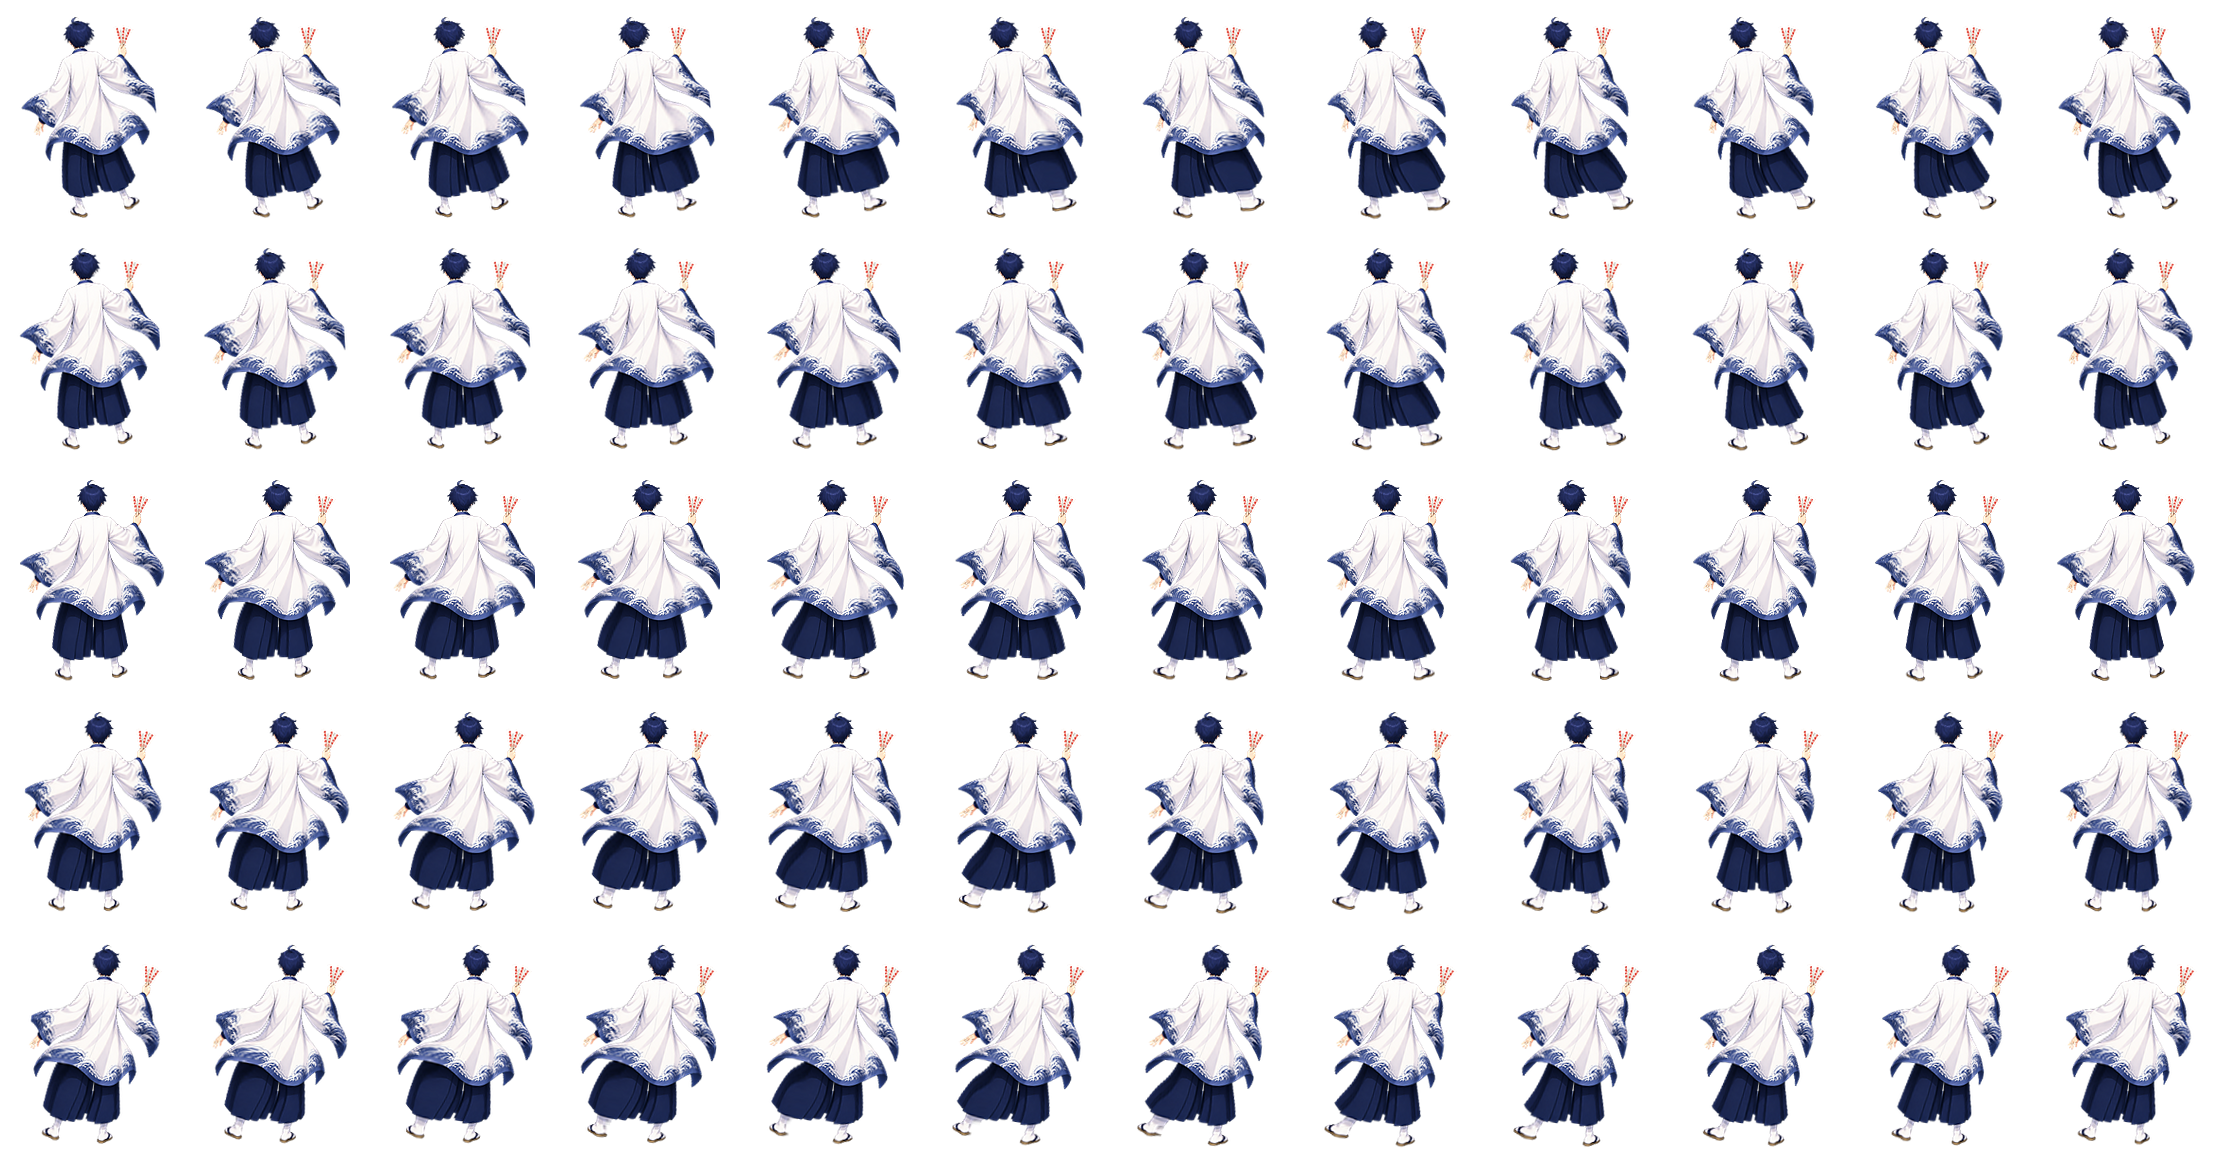
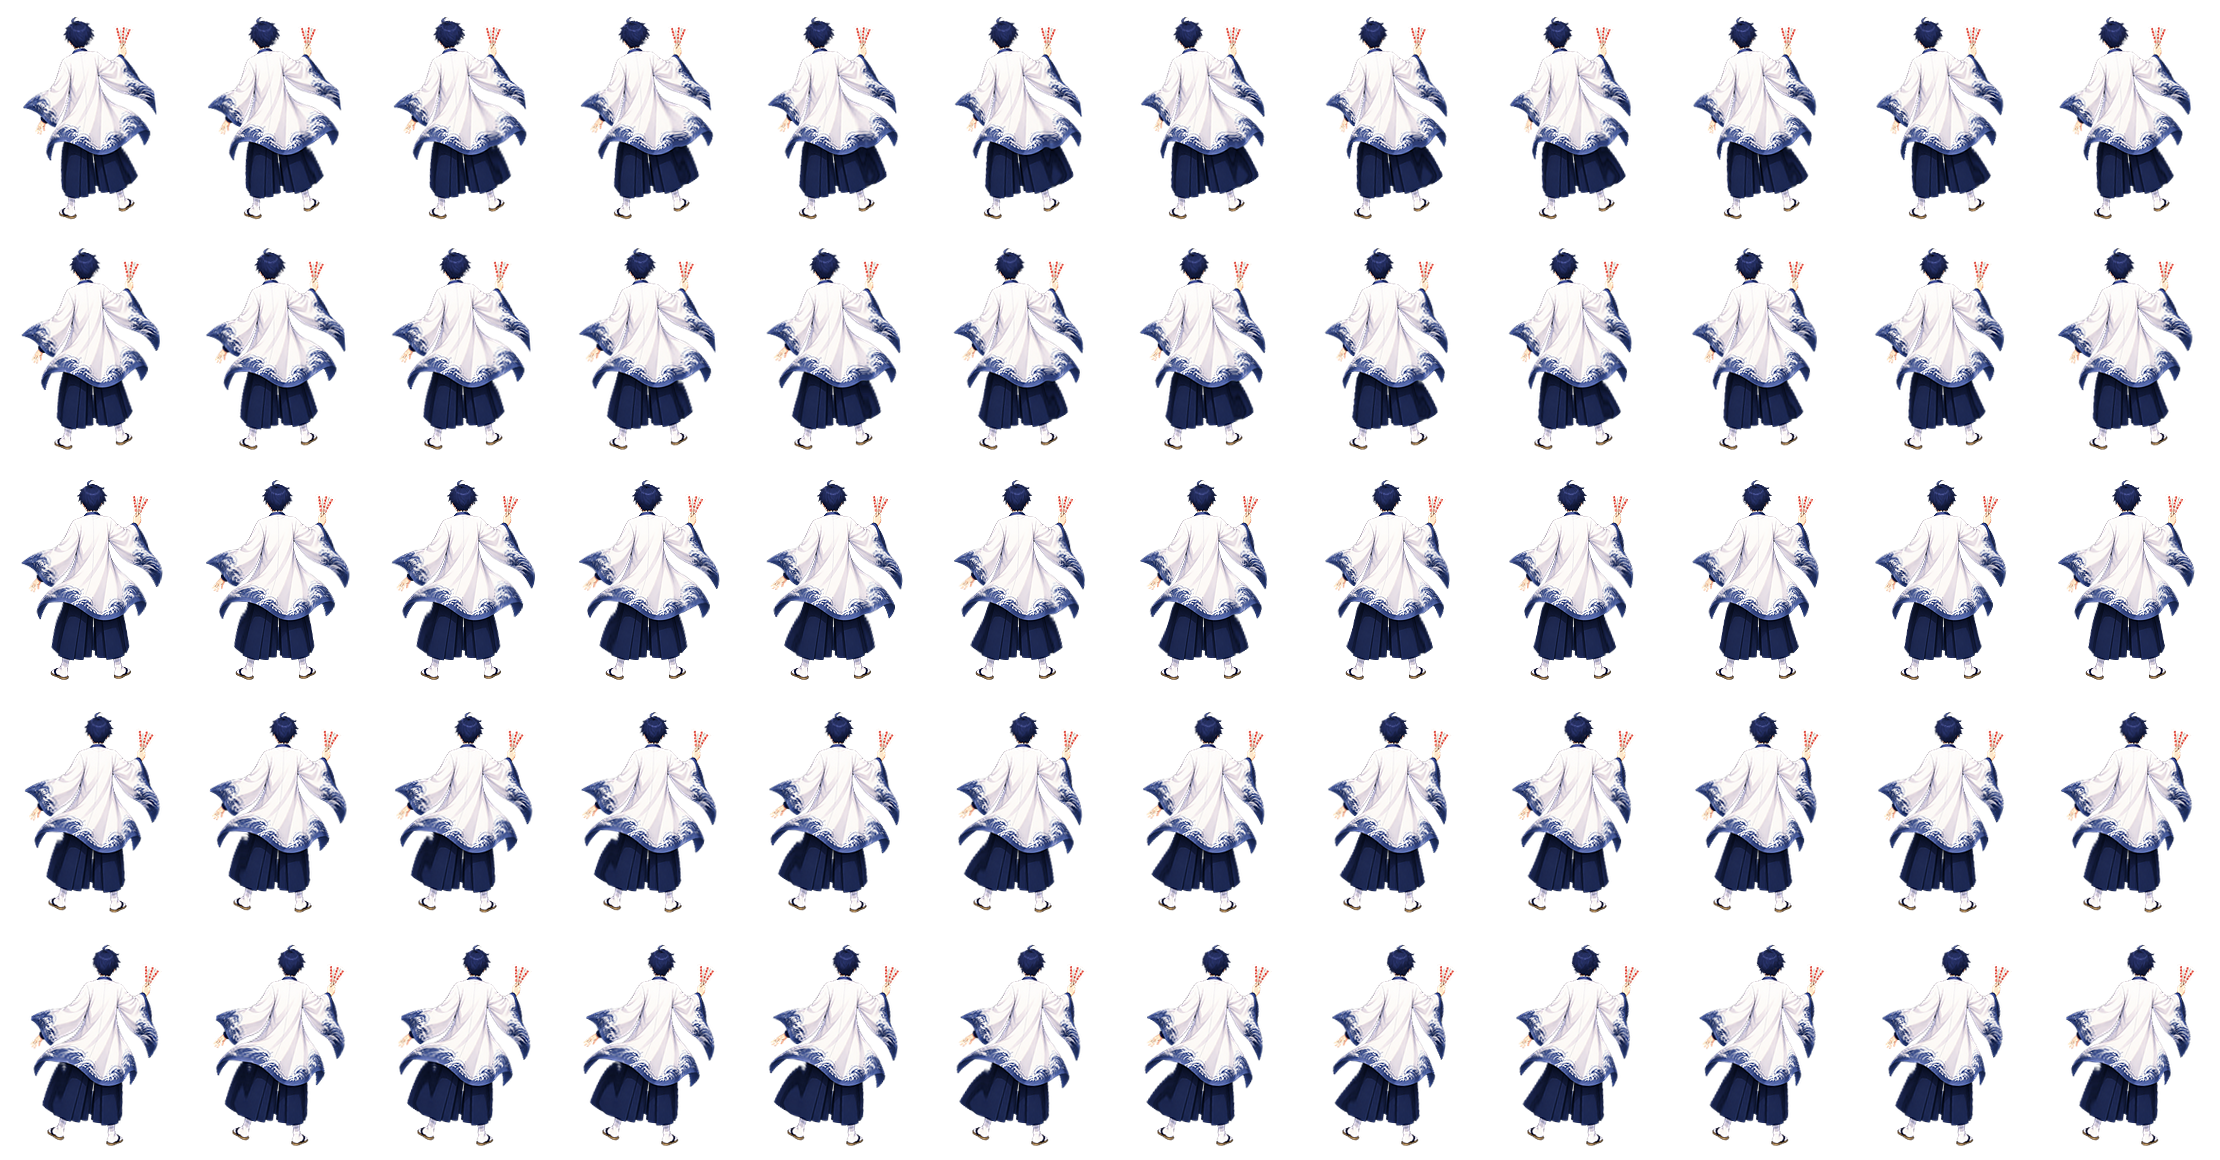
1UP item, 6-life/bomb cap, steadier sprite legs, gentler stage 1 last spell
- Lives and bombs cap at 6; extends past the cap become score.
- Life/bomb piece counters sit in a fixed column.
- New 1UP item: dropped by a carrier fairy before the stage 6 boss,
  by the Extra and Extra-IF midbosses, and by the last fairy of each.
- Sprite sheets: legs and feet stay pinned; only sleeves, coat and hair sway.
- 終夜天象: HP 1100 and every layer fires less often.

diff --git a/Godot/Scripts/Hud.cs b/Godot/Scripts/Hud.cs
@@ -100,6 +100,7 @@ public sealed class DanmakuHud
 	Texture2D ShotTalisman;
 	Texture2D ItemPower;
 	Texture2D ItemPoint;
+	Texture2D ItemOneUp;   // the 1UP item (Art/item_1up.png)
 	Texture2D IconLife;
 	Texture2D IconBomb;
 
@@ -170,6 +171,7 @@ public sealed class DanmakuHud
 		ShotTalisman   = LoadArt("shot_talisman.png");
 		ItemPower      = LoadArt("item_power.png");
 		ItemPoint      = LoadArt("item_point.png");
+		ItemOneUp      = LoadArt("item_1up.png");
 		IconLife       = LoadArt("icon_life.png");
 		IconBomb       = LoadArt("icon_bomb.png");
 
@@ -1048,6 +1050,14 @@ public sealed class DanmakuHud
 				if (Icon != null) ArtSprite(Icon, P, 18f, Tint);
 				break;
 			}
+			case EItemType.OneUp:
+			{
+				// the 1UP: a pulsing pink glow so it stands out from power and point items
+				Sprite(SoftTex, P, V2D(46f + 6f * FMath.Sin(I.Age * 0.2f)), new FLinearColor(1f, 0.45f, 0.65f, 0.75f * Tint.A), EBlend.Additive);
+				Texture2D Icon = ItemOneUp ?? IconLife;
+				if (Icon != null) ArtSprite(Icon, P, 24f, Tint);
+				break;
+			}
 			case EItemType.Star:
 				Sprite(BulletStar ?? SoftTex, P, V2D(12f), new FLinearColor(0.6f, 1f, 0.6f, 0.8f * Tint.A), EBlend.Additive, I.Age * 6f);
 				break;
@@ -1065,6 +1075,13 @@ public sealed class DanmakuHud
 			float R = E.Radius;
 			FLinearColor Tint = E.HitFlash > 0 ? new FLinearColor(1f, 0.7f, 0.7f) : LinColor.White;
 			Sprite(SoftTex, E.Pos, V2D(R * 4f), WithAlpha(E.Color, 0.35f), EBlend.Additive);
+			if (E.bCarry1Up)
+			{
+				// the 1UP carrier holds its item up for everyone to see
+				Sprite(SoftTex, E.Pos, V2D(R * 7f + 6f * FMath.Sin(S.Frame * 0.15f)), new FLinearColor(1f, 0.45f, 0.65f, 0.5f), EBlend.Additive);
+				Texture2D Carried = ItemOneUp ?? IconLife;
+				if (Carried != null) ArtSprite(Carried, E.Pos + new FVector2f(0f, -R * 2.2f), 18f, LinColor.White);
+			}
 			Texture2D Art = E.Kind == 2 ? SpiritArt : (E.Kind == 1 ? FairyRedArt : FairyBlueArt);
 			float T = (S.Frame + E.Age) + E.Pos.X;
 			if (E.Kind == 2) WarpSprite(Art, E.Pos, R * 2.6f, Tint, -E.Vel.X * 0.4f, 1.6f, T * 0.22f, 0.16f, 0.0f);
@@ -1574,10 +1591,10 @@ public sealed class DanmakuHud
 			ScreenText(Label, X0, Y, LabelColor, 1.0f, false, ValX - X0 - 8f * TextScale);
 			float IH = 26f * TextScale;
 			float IX = ValX;
-			for (int i = 0; i < FMath.Min(Count, 8); ++i)
+			for (int i = 0; i < FMath.Min(Count, DanmakuWorld.MaxLives); ++i)
 			{
 				if (Icon == null) break;
-				float IW = IH * (float)Icon.GetWidth() / (float)FMath.Max(1, Icon.GetHeight());
+				float IW = FMath.Min(27f * TextScale, IH * (float)Icon.GetWidth() / (float)FMath.Max(1, Icon.GetHeight()));
 				Canvas.TexRect(Icon, new Vector2(IX, Y + 2f * TextScale), new Vector2(IW, IH), LinColor.White, EBlend.Translucent);
 				IX += IW + 4f * TextScale;
 			}
@@ -1588,9 +1605,11 @@ public sealed class DanmakuHud
 		Row("分數", $"{S.Score:D10}");
 		Y += Line * 0.4f;
 		IconRow("殘機", S.Player.Lives, IconLife);
-		ScreenText(Tr("碎片") + $" {S.Player.LifePieces}/{DanmakuWorld.LifePiecesPerLife}", ValX + (FMath.Max(FMath.Min(S.Player.Lives, 8), FMath.Min(S.Player.Bombs, 8)) * 30f + 14f) * TextScale, Y - Line + 6f * TextScale, new FLinearColor(1f, 0.7f, 0.8f), 0.7f);
+		// the pieces counters sit in a fixed column after room for six icons (the most you can hold), so they never move
+		float PiecesX = ValX + (DanmakuWorld.MaxLives * 31f + 10f) * TextScale;
+		ScreenText(Tr("碎片") + $" {S.Player.LifePieces}/{DanmakuWorld.LifePiecesPerLife}", PiecesX, Y - Line + 6f * TextScale, new FLinearColor(1f, 0.7f, 0.8f), 0.7f);
 		IconRow("靈符", S.Player.Bombs, IconBomb);
-		ScreenText(Tr("碎片") + $" {S.Player.BombPieces}/{S.BombPiecesNeeded()}", ValX + (FMath.Max(FMath.Min(S.Player.Lives, 8), FMath.Min(S.Player.Bombs, 8)) * 30f + 14f) * TextScale, Y - Line + 6f * TextScale, new FLinearColor(0.7f, 1f, 0.75f), 0.7f);
+		ScreenText(Tr("碎片") + $" {S.Player.BombPieces}/{S.BombPiecesNeeded()}", PiecesX, Y - Line + 6f * TextScale, new FLinearColor(0.7f, 1f, 0.75f), 0.7f);
 		Y += Line * 0.4f;
 		Row("靈力", Inv($"{S.Player.Power:F2} / 4.00"));
 		Row("擦彈", $"{S.Graze}");

diff --git a/Godot/Scripts/WorldCore.cs b/Godot/Scripts/WorldCore.cs
@@ -1209,6 +1209,7 @@ public partial class DanmakuWorld
 			for (int i = 0; i < N; ++i) Fire(E.Pos, 1.25f, Base + 360f * i / N, EBulletShape.Small, new FLinearColor(1f, 0.96f, 0.85f));
 		}
 		if (E.Kind == 2) SpawnItem(EItemType.BombPiece, E.Pos, false);
+		if (E.bCarry1Up) SpawnItem(EItemType.OneUp, E.Pos, false);   // the carrier drops its 1UP
 		for (int i = 0; i < E.DropPower; ++i) SpawnItem(EItemType.Power, E.Pos + new FVector2f(Rng.FRandRange(-16f, 16f), Rng.FRandRange(-8f, 8f)), false);
 		for (int i = 0; i < E.DropPoint; ++i) SpawnItem(EItemType.Point, E.Pos + new FVector2f(Rng.FRandRange(-16f, 16f), Rng.FRandRange(-8f, 8f)), false);
 	}
@@ -1309,6 +1310,8 @@ public partial class DanmakuWorld
 				}
 				if (bMidboss)
 				{
+					// beating the Extra / Extra-IF midboss drops a 1UP
+					if (StageIndex >= ExtraStage) SpawnItem(EItemType.OneUp, Boss.Pos, false);
 					bMidboss = false;
 					bMidDone = true;
 					Boss = new FBossState();
@@ -1738,10 +1741,10 @@ public partial class DanmakuWorld
 	public void Pattern_Final(int T)
 	{
 		PatrolBoss(T);
-
-		if (Every(T, 20, 0))
+		// toned down for a first boss: every layer fires less often than it used to (sun 20 -> 28, stars 10 -> 16, moons 60 -> 90 ...)
+		if (Every(T, 28, 0))
 		{
-			float Sgn = (T / 20) % 2 == 0 ? 1f : -1f;
+			float Sgn = (T / 28) % 2 == 0 ? 1f : -1f;
 			float Base = T * 0.03f * Sgn * RadToDeg;
 			for (int Rg = 0; Rg < 2; ++Rg)
 			{
@@ -1757,9 +1760,9 @@ public partial class DanmakuWorld
 				}
 			}
 		}
-		if (Every(T, 60, 0)) LunarSideWave(T);
-		if (Every(T, 10, 0)) StarRain(1);
-		if (Every(T, 160, 80))
+		if (Every(T, 90, 0)) LunarSideWave(T);
+		if (Every(T, 16, 0)) StarRain(1);
+		if (Every(T, 200, 100))
 		{
 			int N = Cnt(18);
 			for (int i = 0; i < N; ++i)
@@ -1772,8 +1775,8 @@ public partial class DanmakuWorld
 				B.MaxSpeed = 2.3f;
 			}
 		}
-		if (Every(T, 260, 130)) OrbitingMoons(8, 48f, 70);
-		if (Every(T, 240, 40)) MeteorSweep(Rng.FRand() < 0.5f);
+		if (Every(T, 360, 180)) OrbitingMoons(8, 48f, 70);
+		if (Every(T, 330, 40)) MeteorSweep(Rng.FRand() < 0.5f);
 	}
 
 	// =====================================================================================
@@ -2195,6 +2198,16 @@ public partial class DanmakuWorld
 		case EItemType.BombPiece:
 			AddBombPieces(1, "靈符碎片");
 			break;
+		case EItemType.OneUp:
+			if (Player.Lives < MaxLives)
+			{
+				++Player.Lives;
+				Sfx(ESfx.SpellGet);
+				Popup("1UP！", new FLinearColor(1f, 0.55f, 0.7f));
+				AddParticle(Player.Pos, FVector2f.Zero, 120f, new FLinearColor(1f, 0.55f, 0.7f), 30, true);
+			}
+			else Score += 2000000;
+			break;
 		}
 	}
 
@@ -2203,7 +2216,7 @@ public partial class DanmakuWorld
 	//   * score extends (1UP at 10M / 30M / 60M / 100M / 150M, then every 100M)
 	//   * life pieces: capturing a spell card drops one; 5 pieces = 1UP
 	//   * bomb pieces: beating a non-spell, killing a big spirit, or every 250 grazes; 3 pieces = 1 bomb
-	// Lives and bombs cap at 8; anything beyond that turns into score.
+	// Lives and bombs cap at 6; anything beyond that turns into score.
 	// =====================================================================================
 
 	public static long ExtendScore(int Index)

diff --git a/Godot/Scripts/Roads.cs b/Godot/Scripts/Roads.cs
@@ -92,6 +92,17 @@ public partial class DanmakuWorld
 		return E;
 	}
 
+	/** A fairy carrying a 1UP: it hovers in the middle for a while, and drops the 1UP if you shoot it down in time. */
+	public FEnemy OneUpCarrier()
+	{
+		FEnemy E = Sentry(new FVector2f(FieldW * 0.5f, -20f), 1, 70, 480, 160f);
+		E.bCarry1Up = true;
+		E.bRevenge = false;
+		E.Color = new FLinearColor(1f, 0.55f, 0.75f);
+		E.DropPower = 0;
+		return E;
+	}
+
 	public FEnemy Spirit(FVector2f Pos, int Pattern, float HP)
 	{
 		return SpawnEnemy(Pos, new FVector2f(0f, 1.5f), 2, HP * 0.7f, Pattern, 90, 690, new FVector2f(0f, -1f), 8, 8);
@@ -291,6 +302,7 @@ public partial class DanmakuWorld
 		}
 		if (F == 2600) for (int i = 0; i < 4; ++i) Sentry(new FVector2f(64f + i * 85f, -20f), i % 2 != 0 ? 1 : 8, 60, 300).Color = RYellow;
 		if (Rep(F, 2700, 16, 18, ref K)) Doll(new FVector2f(Rng.FRandRange(30f, FieldW - 30f), -16f), new FVector2f(0f, 2.1f), 0).Color = RYellow;
+		if (F == 3100) OneUpCarrier();   // the last fairy before the final boss carries a 1UP
 		if (F >= 3600 && (Enemies.Count == 0 || F >= 3900)) StartBoss();
 	}
 
@@ -345,6 +357,7 @@ public partial class DanmakuWorld
 			Spirit(new FVector2f(FieldW * 0.5f, -30f), 22, 600f);
 		}
 		if (Rep(F, 6800, 20, 20, ref K)) Doll(new FVector2f(K % 2 != 0 ? -16f : FieldW + 16f, 40f + (K % 3) * 25f), new FVector2f(K % 2 != 0 ? 2f : -2f, 0.6f), 0);
+		if (F == 7300) OneUpCarrier();   // the last fairy before 一索 carries a 1UP
 		if (F >= 7800 && (Enemies.Count == 0 || F >= 8100)) StartBoss();
 	}
 

diff --git a/Tools/anim/make_sheets.py b/Tools/anim/make_sheets.py
@@ -56,13 +56,16 @@ def shift(layer, dx, dy):
 
 
 def cloth_weight(h, w, spec):
-    """How much each pixel flutters: outer sleeves / robe below `top`, the hem, minus rigid `keep` boxes (feathered)."""
+    """How much each pixel flutters: outer sleeves / robe below `top`, minus the legs and rigid `keep` boxes (feathered).
+    The legs and feet (below `legs`=(v_top, half_width)) never move, so nobody walks on rubber legs."""
     core, top, amp = spec.get("cloth", (0.14, 0.30, 1.0))
+    leg_top, leg_half = spec.get("legs", (0.58, 0.20))
     v, u = np.mgrid[0:h, 0:w]
     u = (u + 0.5) / w
     v = (v + 0.5) / h
     wgt = smooth(core, core + 0.22, np.abs(u - 0.5)) * smooth(top, top + 0.28, v)
-    wgt = np.maximum(wgt, 0.7 * smooth(0.72, 0.97, v))           # the hem swings even at the centre
+    wgt = wgt * (1 - smooth(0.80, 0.90, v))                       # nothing near the feet moves
+    wgt = wgt * (1 - smooth(leg_top, leg_top + 0.06, v) * (1 - smooth(leg_half, leg_half + 0.06, np.abs(u - 0.5))))
     for (u0, u1, v0, v1) in spec.get("keep", []):
         f = 0.04
         box = smooth(u0 - f, u0, u) * (1 - smooth(u1, u1 + f, u)) * smooth(v0 - f, v0, v) * (1 - smooth(v1, v1 + f, v))
@@ -94,7 +97,7 @@ def build(name, spec):
     amp = w * 0.035
     yy = (np.mgrid[0:h, 0:w][0] + 0.5) / h
     cw_, uu, vv = cloth_weight(h, w, spec)
-    camp = w * 0.05
+    camp = w * 0.035
     for row in range(POSES):
         pose = row - POSES // 2
         for col in range(COLS):

diff --git a/Godot/Scripts/Types.cs b/Godot/Scripts/Types.cs
@@ -160,7 +160,7 @@ public enum ECharacter : byte
 
 public enum EBulletShape : byte { Small, Medium, Large, Rice, Star, Crescent, Comet, Sakura, Maple, Snow, Water, Fire, Chrys, Tile }
 public enum EBulletEvent : byte { None, AimAtPlayer, SplitRing, StopThenAim, SplitTwo }
-public enum EItemType : byte { Power, BigPower, Point, Star, LifePiece, BombPiece }
+public enum EItemType : byte { Power, BigPower, Point, Star, LifePiece, BombPiece, OneUp }
 public enum EShotType : byte { Talisman, Straight, Homing, Doll }
 /** Sound effect events pushed by the simulation, played by DanmakuAudio. */
 public enum ESfx : byte { Shot, EnemyShot, Graze, Item, EnemyDie, PlayerDie, Bomb, Spell, SpellGet, Break, MenuMove, MenuOk, MenuBack, Pause, Count }
@@ -269,6 +269,7 @@ public class FEnemy
 	public FVector2f Acc = FVector2f.Zero;   // added to Vel every frame (curving paths)
 	public float SineAmp = 0f, SineFreq = 0f, SinePhase = 0f;   // sideways sway
 	public bool bRevenge = false;   // bursts into a small ring when killed
+	public bool bCarry1Up = false;  // carries a 1UP item that drops when it is shot down
 	public FLinearColor Color = LinColor.Blue;
 	public bool bDead = false;
 }

diff --git a/Godot/Scripts/StageIf.cs b/Godot/Scripts/StageIf.cs
@@ -830,6 +830,7 @@ public partial class DanmakuWorld
 		if (Rep(F, 4400, 30, 14, ref K)) Doll(new FVector2f(Rng.FRandRange(30f, FieldW - 30f), -16f), new FVector2f(0f, 1.8f), K % 3 == 0 ? 16 : 0).Color = Pearl;
 		if (Rep(F, 5200, 44, 8, ref K)) Doll(new FVector2f(FieldW * 0.5f + (K % 2 != 0 ? -1f : 1f) * (20f + (K % 11) * 14f), -16f), new FVector2f(0f, 2f), K % 3 == 0 ? 2 : -1).Color = Bronze;
 		if (F == 6000) for (int i = 0; i < 4; ++i) Sentry(new FVector2f(64f + i * 85f, -20f), i % 2 != 0 ? 1 : 8, 60, 360).Color = i % 2 != 0 ? Crimson : Indigo;
+		if (F == 6500) OneUpCarrier();   // the last fairy before the four perils carries a 1UP
 		if (F >= 7000 && (Enemies.Count == 0 || F >= 7300)) StartBoss();
 	}
 }

diff --git a/Godot/Scripts/Bosses.cs b/Godot/Scripts/Bosses.cs
@@ -60,7 +60,7 @@ public partial class DanmakuWorld
 				new(600f, 35, false, "", static (w, t) => w.Pattern_NonSpell2(t)),
 				new(850f, 50, true, "月蝕「月面反照」", static (w, t) => w.Pattern_Moon(t)),
 				new(850f, 50, true, "星雨「天河崩落」", static (w, t) => w.Pattern_Star(t)),
-				new(1300f, 60, true, "日月星奧義「終夜天象」", static (w, t) => w.Pattern_Final(t)),
+				new(1100f, 60, true, "日月星奧義「終夜天象」", static (w, t) => w.Pattern_Final(t)),
 			},
 			Dialogue = new List<FDialogueLine>[]
 			{

diff --git a/Godot/Scripts/World.cs b/Godot/Scripts/World.cs
@@ -162,8 +162,8 @@ public partial class DanmakuWorld
 	// Life / bomb recovery (see UpdateRecovery)
 	public const int LifePiecesPerLife = 5;
 	public const int BombPiecesPerBomb = 3;
-	public const int MaxLives = 8;
-	public const int MaxBombs = 8;
+	public const int MaxLives = 6;
+	public const int MaxBombs = 6;
 	public const int GrazePerBombPiece = 250;
 	public int NextExtend = 0;          // index into the score-extend table
 	public int NextGrazeReward = GrazePerBombPiece;
